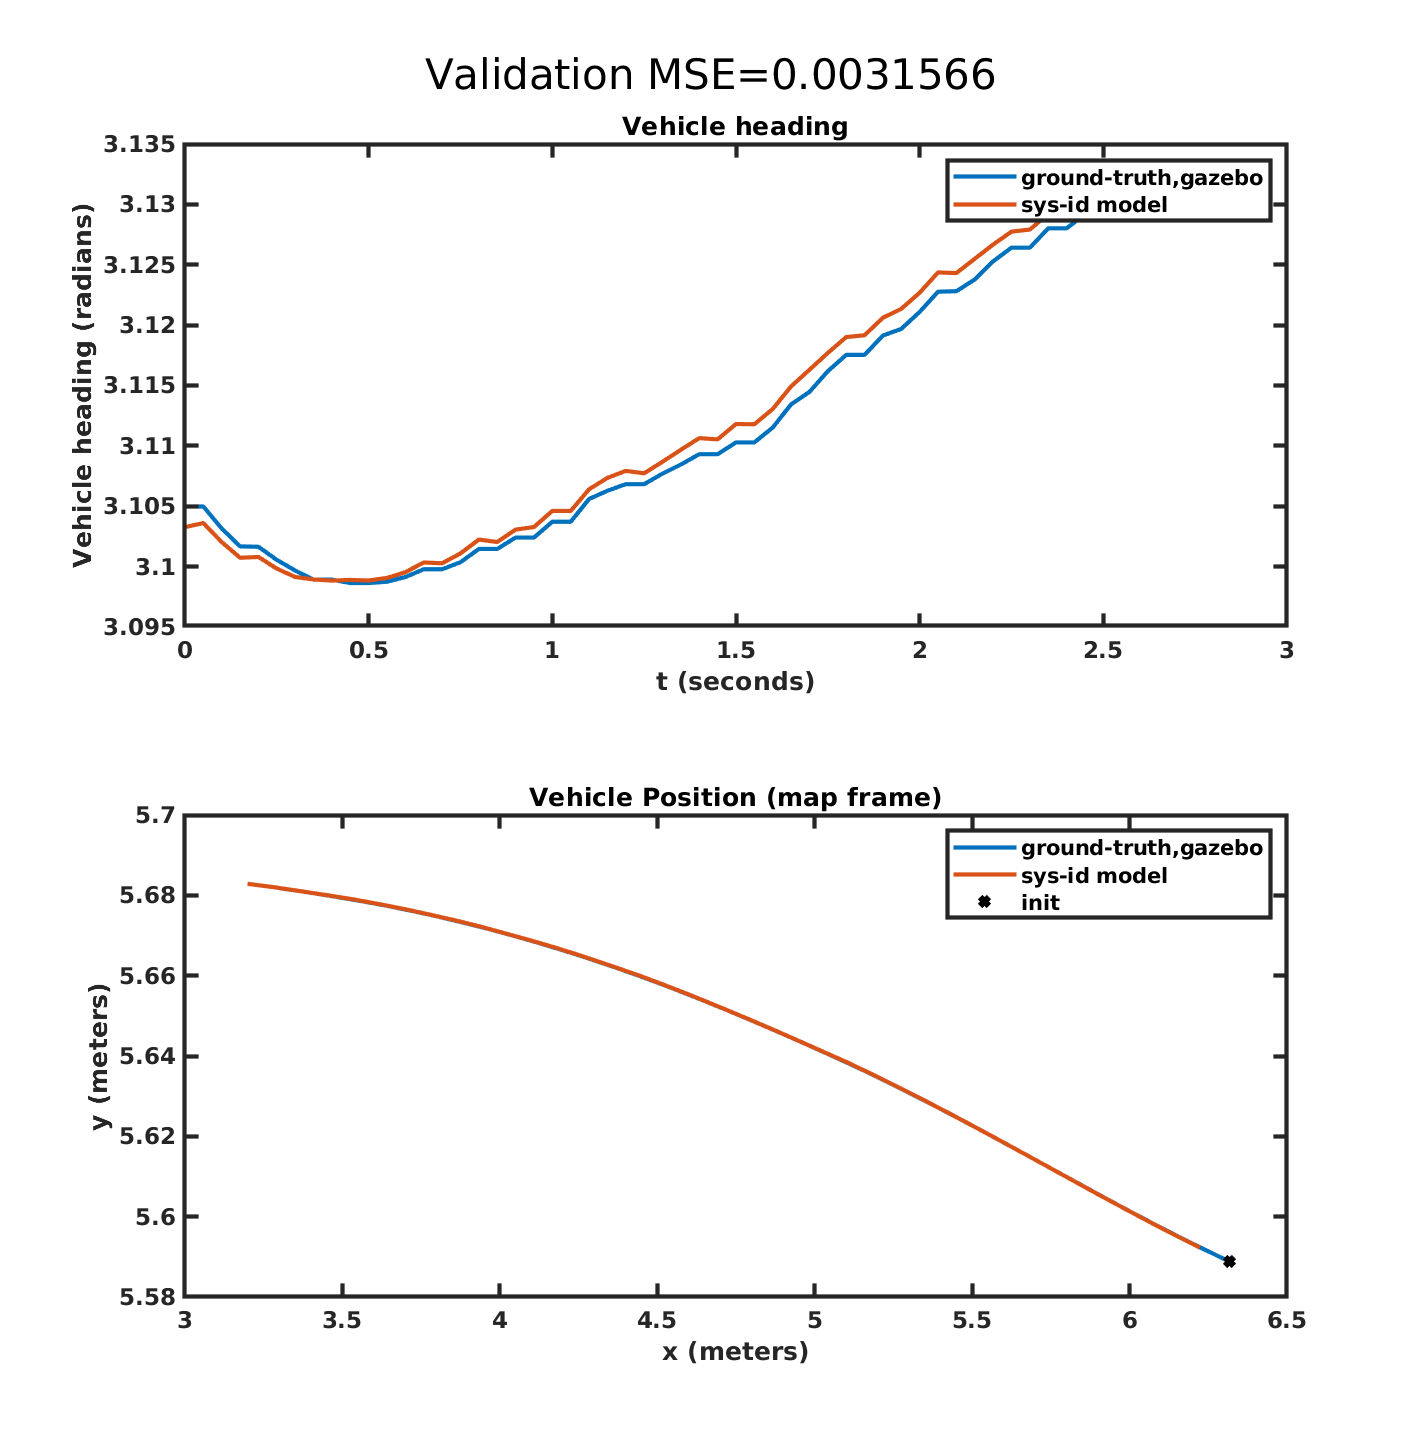
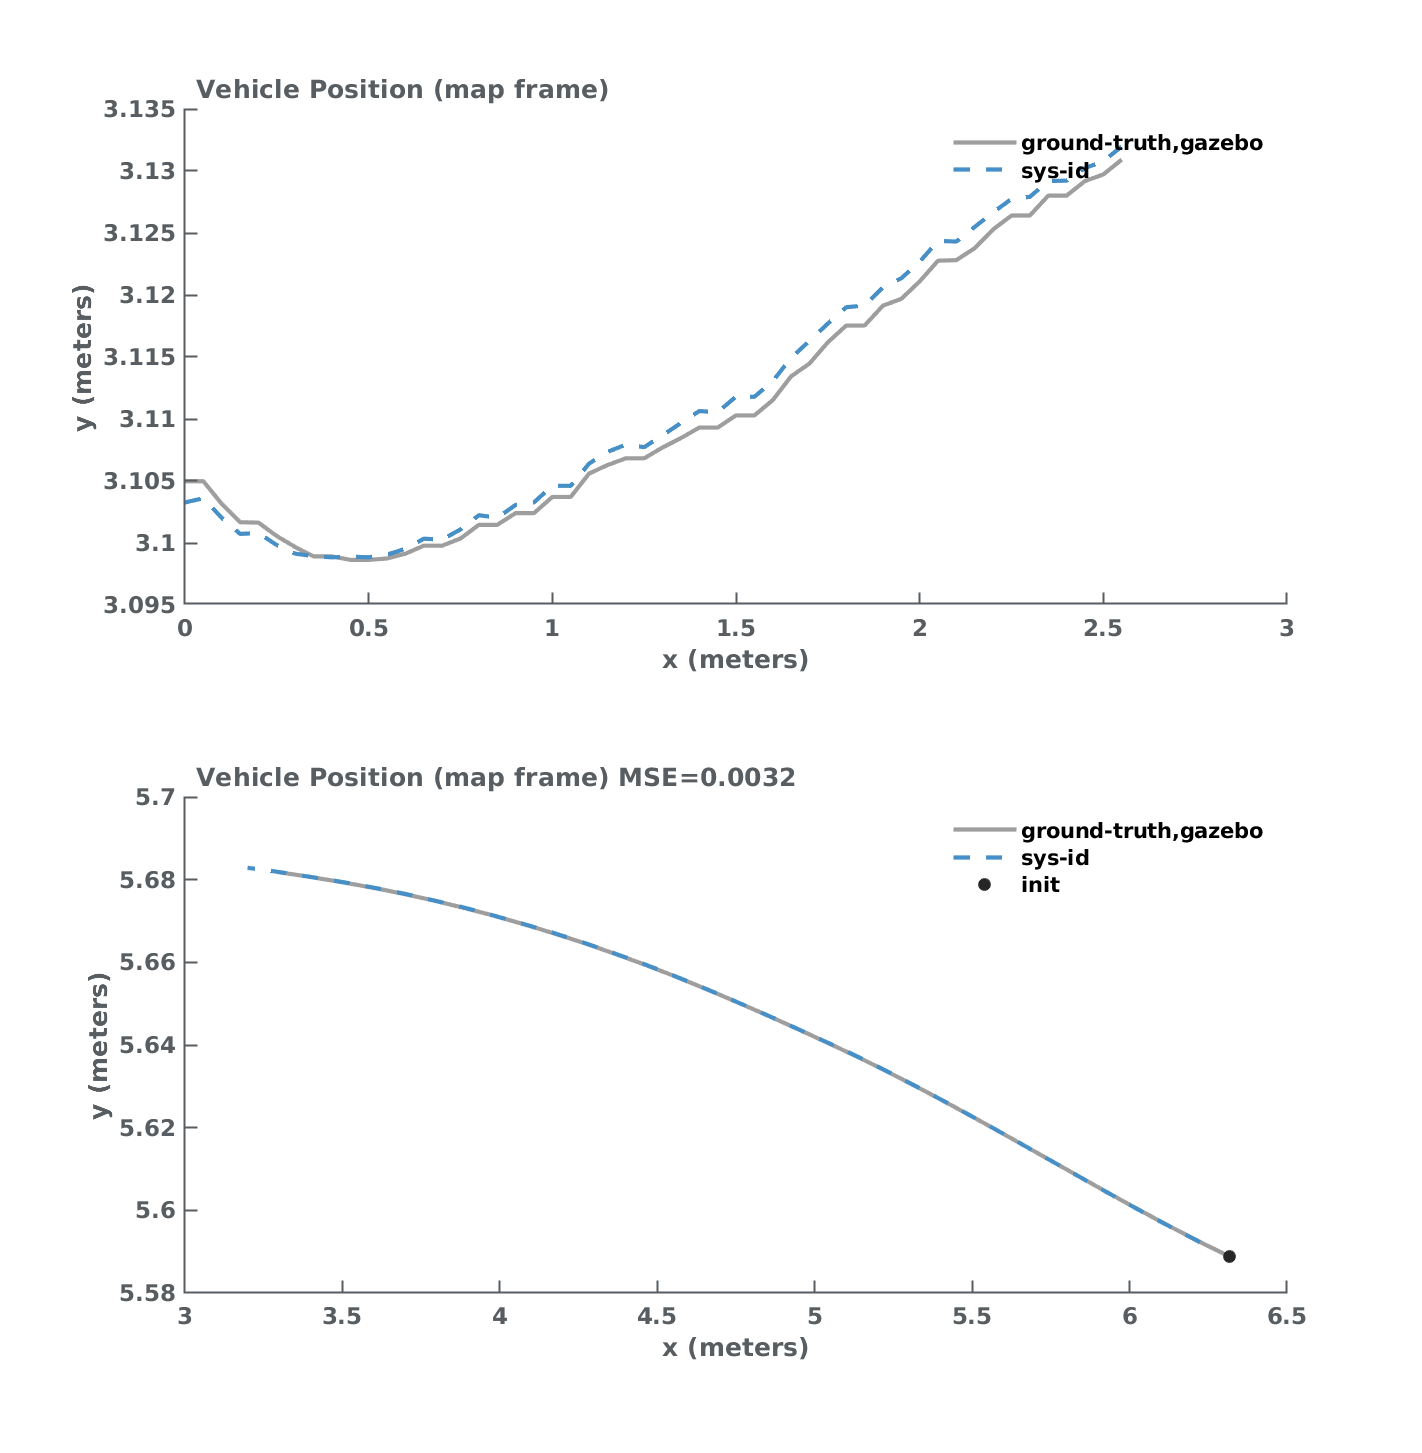
Data Vis

diff --git a/src/race/sys_id/validate_experiment.m b/src/race/sys_id/validate_experiment.m
@@ -22,34 +22,53 @@ err = immse(x,xe);
 
 %change to the desired value     
 fig = figure();
+set(gcf,'color','w');
 set(gcf, 'Position',  [100, 100, 900, 900]);
 
 
 
 subplot(2,2,[1,2]);
-plot(t,x(4,:),'DisplayName','ground-truth,gazebo','LineWidth',2)
+plot(t,x(4,:),'-','Color', [157, 158, 157]/255,'DisplayName','ground-truth,gazebo','LineWidth',2)
 hold on;
-plot(t,xe(4,:),'DisplayName','sys-id model','LineWidth',2)
-xlabel('t (seconds)') 
+plot(t,xe(4,:),'--','Color', [70, 143, 199]/255,'DisplayName','sys-id','LineWidth',2)
+xlabel('Time (s)') 
 ylabel('Vehicle heading (radians)') 
-title("Vehicle heading")
+t = title("Vehicle heading (radians)",'Color',[87, 93, 97]/255);
+set(t, 'horizontalAlignment', 'left')
+set(t, 'units', 'normalized')
+set(t, 'position', [0.01 1.01 0]);
 legend
-
+ax = gca; % Get handle to current axes.
+ax.XColor = [87, 93, 97]/255; % Red
+ax.YColor = [87, 93, 97]/255; % Blue
+set(gca,'box','off')
+legend boxoff 
+xlabel('x (meters)') 
+ylabel('y (meters)') 
+t = title("Vehicle Position (map frame)",'Color',[87, 93, 97]/255);
 
 subplot(2,2,[3,4]);
-plot(x(1,:),x(2,:),'DisplayName','ground-truth,gazebo','LineWidth',2)
+plot(x(1,:),x(2,:),'-','Color', [157, 158, 157]/255,'DisplayName','ground-truth,gazebo','LineWidth',2)
 hold on;
-plot(xe(1,:),xe(2,:),'DisplayName','sys-id model','LineWidth',2)
-plot(x(1,1),x(2,1),'kx','DisplayName','init','LineWidth',3)
+plot(xe(1,:),xe(2,:),'--','Color', [70, 143, 199]/255,'DisplayName','sys-id','LineWidth',2)
+plot(x(1,1),x(2,1),'*','Color', [38, 38, 38]/255,'DisplayName','init','LineWidth',2)
 hold off;
 xlabel('x (meters)') 
 ylabel('y (meters)') 
-title("Vehicle Position (map frame)")
+ax = gca; % Get handle to current axes.
+ax.XColor = [87, 93, 97]/255; % Red
+ax.YColor = [87, 93, 97]/255; % Blue
+set(gca,'box','off')
+t = title(strcat("Vehicle Position (map frame) MSE=",string(round(err,4))),'Color',[87, 93, 97]/255);
+set(t, 'horizontalAlignment', 'left')
+set(t, 'units', 'normalized')
+set(t, 'position', [0.01 1.01 0]);
 legend
-set(findobj(gcf,'type','axes'),'FontName','Calibri','FontSize',11,'FontWeight','Bold', 'LineWidth', 2,'layer','top');
+legend boxoff 
+set(findobj(gcf,'type','axes'),'FontName','Calibri','FontSize',11,'FontWeight','Bold', 'LineWidth', 1,'layer','top');
 
-sgt =sgtitle(strcat('Validation MSE=',string(err)));
-sgt.FontSize = 20;
+%sgt =sgtitle(strcat('Validation MSE=',string(err)));
+%sgt.FontSize = 20;
 figname = split(strrep(csv_filename,'csv/',''),".");
 savename = strcat("plots/",figname(1),".png");
 saveas(fig,savename);
